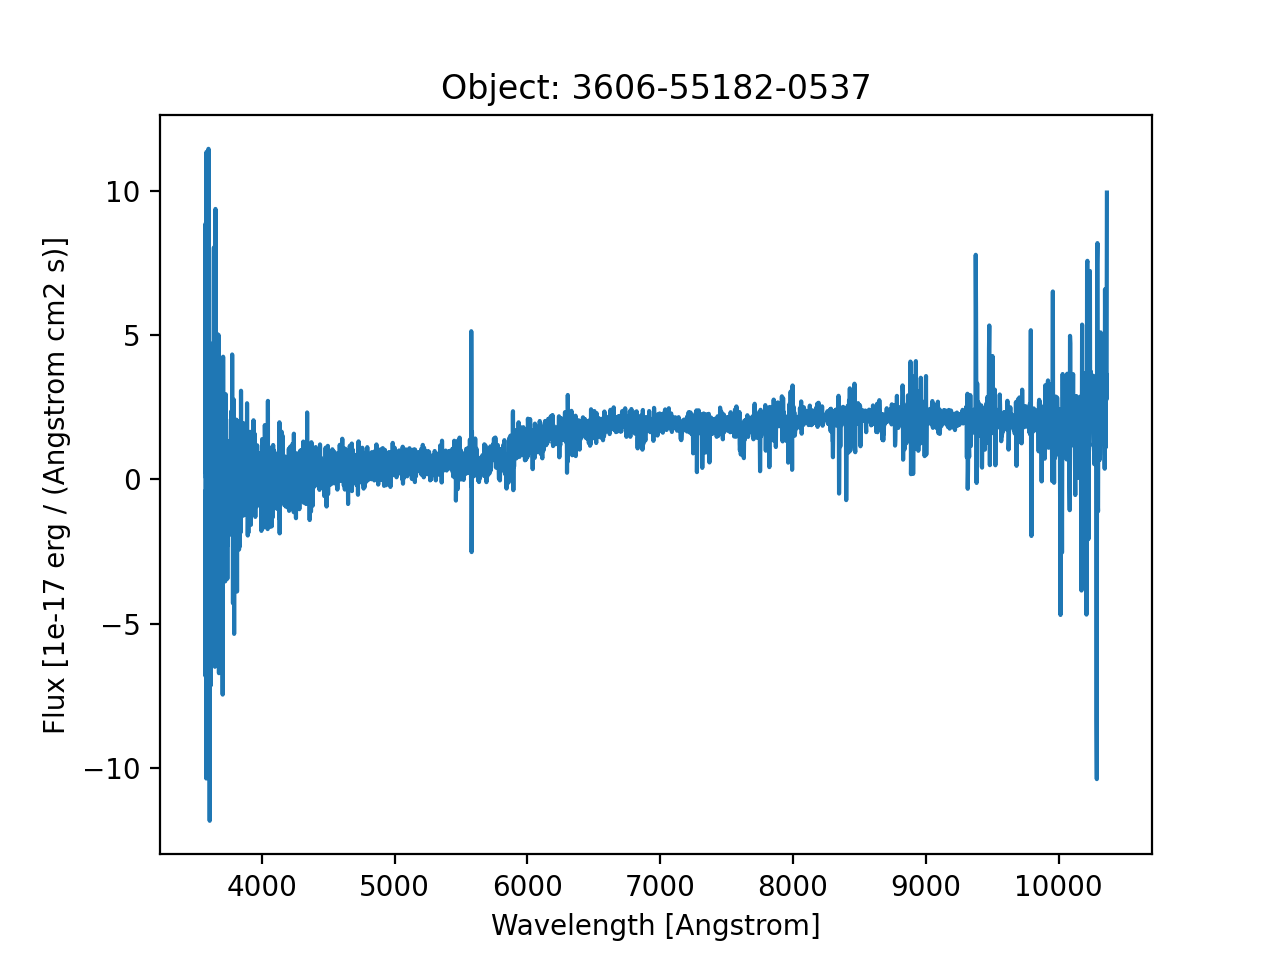
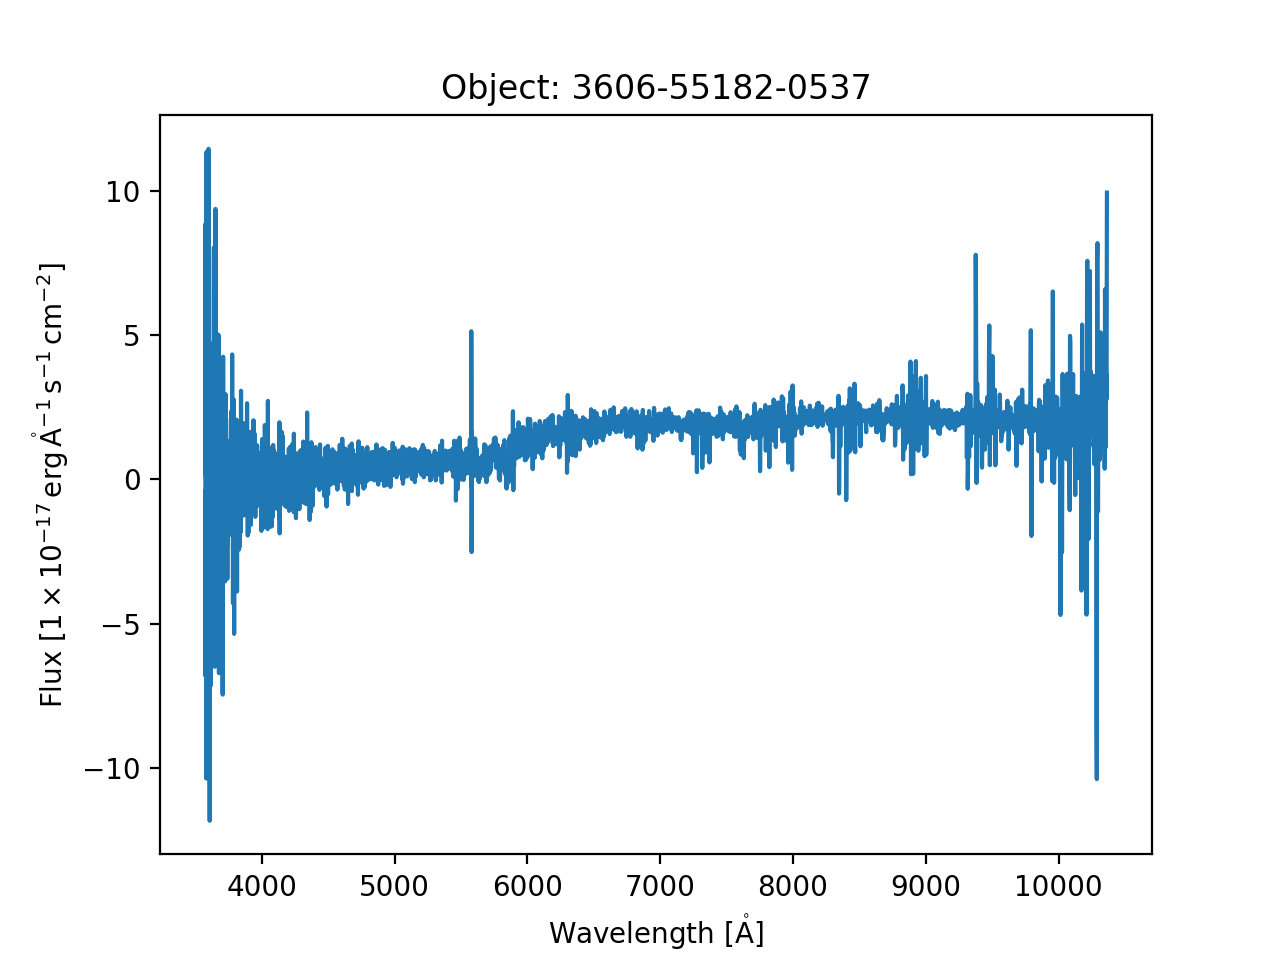
updating the quick plot

Changed region(s): [[0.0312, 0.25, 0.0625, 0.7812], [0.375, 0.9375, 0.625, 1.0]]

diff --git a/python/sdss_brain/tools/spectra.py b/python/sdss_brain/tools/spectra.py
@@ -65,7 +65,8 @@ class Spectrum(Brain):
             log.warning('Could not load Spectrum1D for format '
                         f'{self.specutils_format}, {self.filename}')
 
-    def plot(self, **kwargs):
+    def plot(self, ax=None, x_label: str = 'Wavelength', y_label: str = 'Flux', title: str = None,
+             **kwargs):
         ''' A simple quick matplotlib plot of the spectrum'''
         if not self.spectrum:
             return
@@ -73,11 +74,14 @@ class Spectrum(Brain):
         if not plt:
             raise BrainMissingDependency("Package matplotlib not installed.")
 
-        __, ax = plt.subplots()
+        if not ax:
+            ax = plt.gca()
+
+        title = title or f'Object: {self.objectid or self.filename.stem}'
         ax.plot(self.spectrum.wavelength, self.spectrum.flux, **kwargs)
-        ax.set_ylabel(f'Flux [{self.spectrum.flux.unit}]')
-        ax.set_xlabel(f'Wavelength [{self.spectrum.wavelength.unit}]')
-        ax.set_title(f'Object: {self.objectid or self.filename.stem}')
+        ax.set_ylabel(f'{y_label} [{self.spectrum.flux.unit.to_string(format="latex_inline")}]')
+        ax.set_xlabel(f'{x_label} [{self.spectrum.wavelength.unit.to_string(format="latex_inline")}]')
+        ax.set_title(title)
         return ax
 
 
